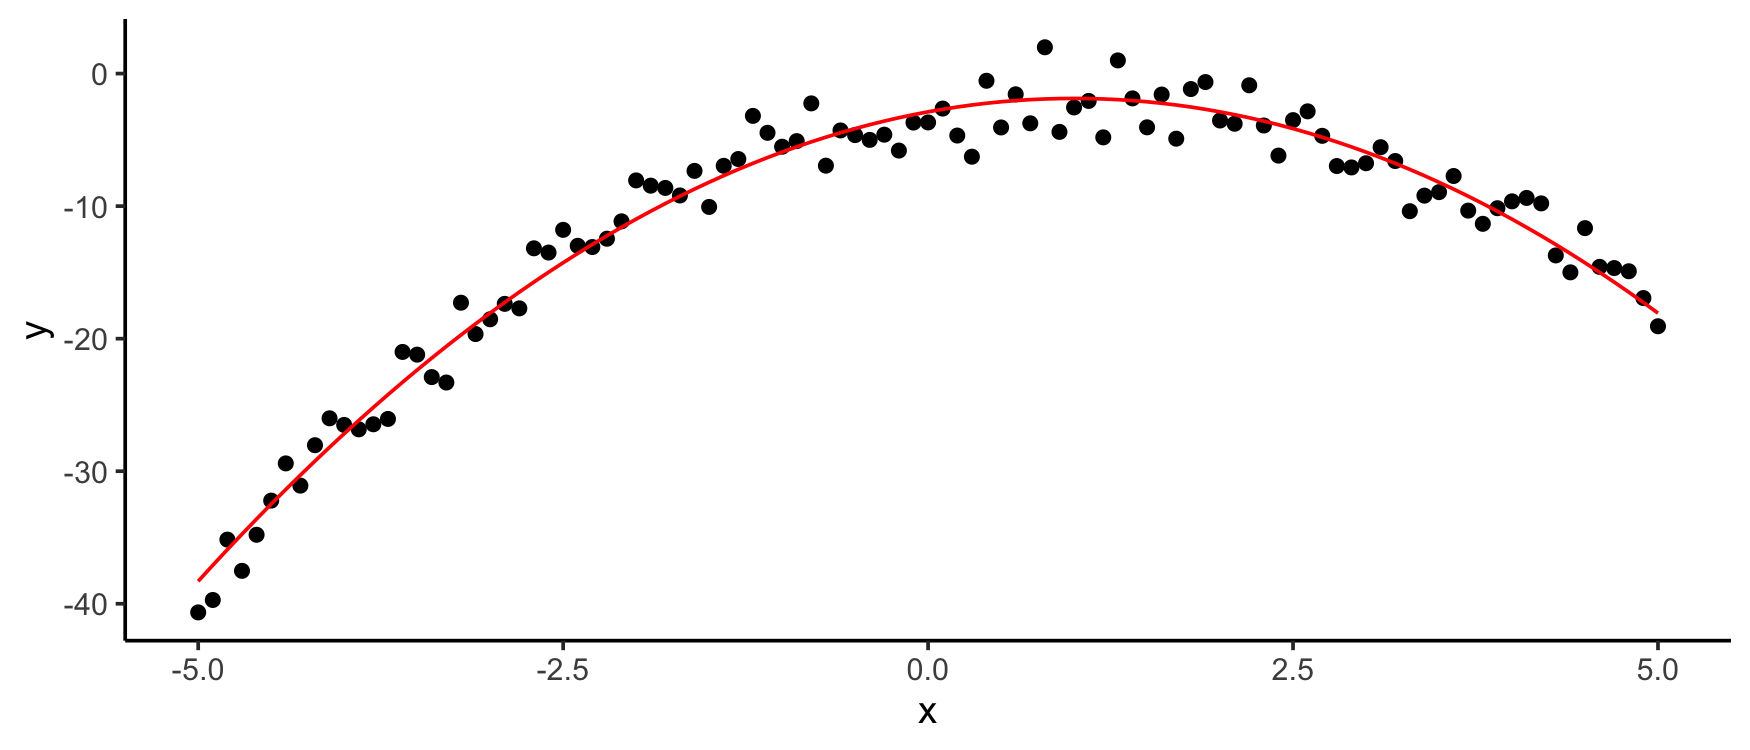
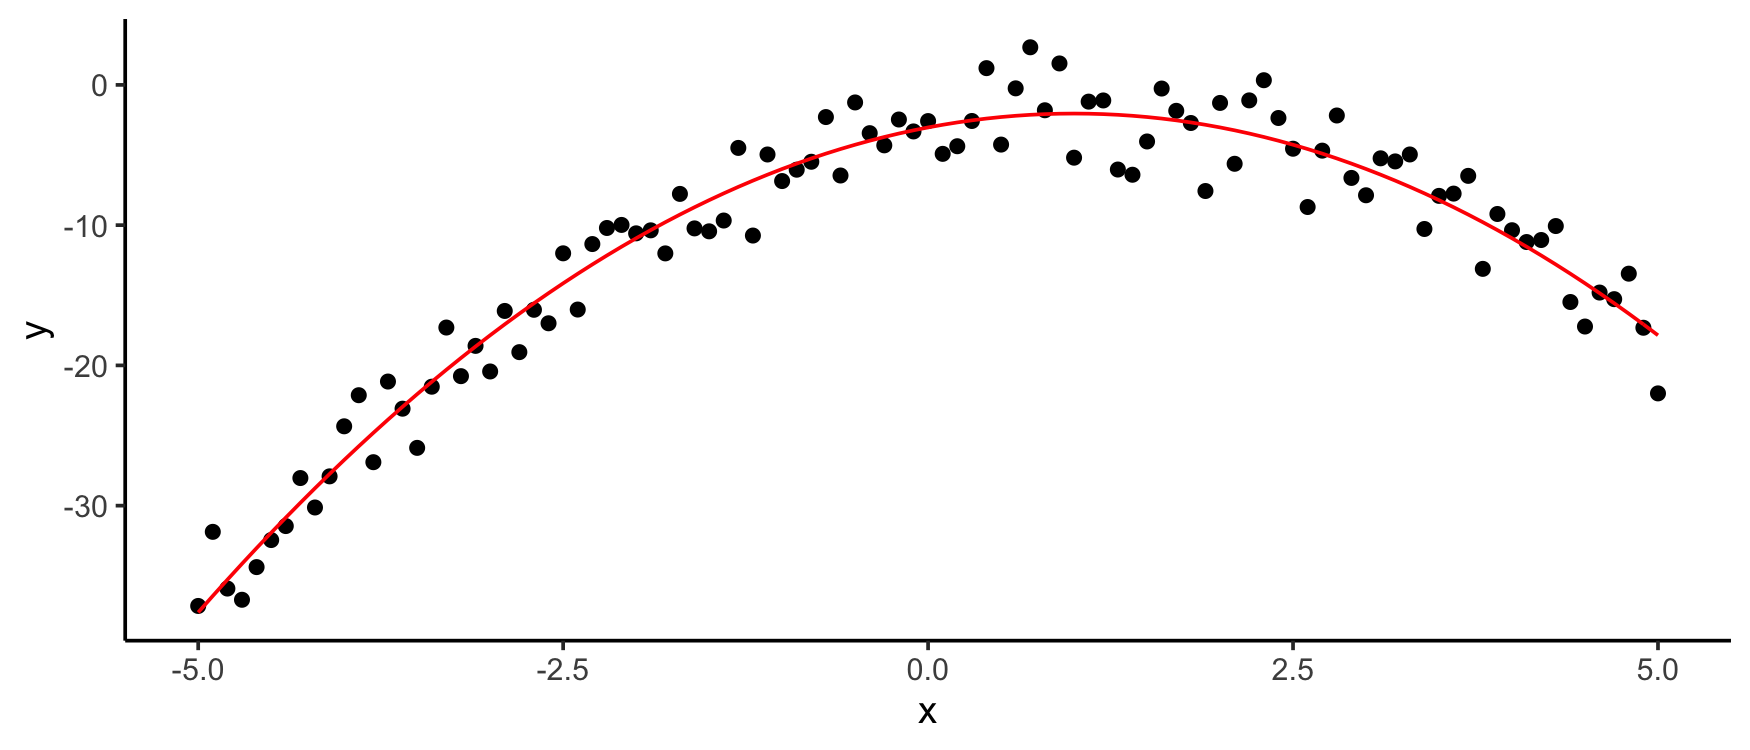
add cran badge to readme

diff --git a/README.md b/README.md
@@ -3,6 +3,12 @@
 mpoly
 =====
 
+<!-- badges: start -->
+
+[![CRAN
+status](https://www.r-pkg.org/badges/version/mpoly)](https://cran.r-project.org/package=mpoly)
+<!-- badges: end -->
+
 Specifying polynomials
 ----------------------
 
@@ -552,7 +558,7 @@ df$y <- with(df, -x^2 + 2*x - 3 + rnorm(n, 0, 2))
 
 mod <- lm(y ~ x + I(x^2), data = df)
 (p <- mod %>% as.mpoly %>% round)
-# 2.023 x  -  1.012 x^2  -  2.886
+# 1.976 x  -  0.988 x^2  -  3.032
 qplot(x, y, data = df) +
   stat_function(fun = as.function(p), colour = 'red')
 # f(.) with . = x
@@ -572,19 +578,19 @@ df <- expand.grid(x = s, y = s) %>%
 # 
 # Coefficients:
 #                           (Intercept)  
-#                             -0.024587  
+#                              0.052248  
 # poly(x, y, degree = 2, raw = TRUE)1.0  
-#                             -0.009347  
+#                              0.008894  
 # poly(x, y, degree = 2, raw = TRUE)2.0  
-#                              1.002485  
+#                              1.000142  
 # poly(x, y, degree = 2, raw = TRUE)0.1  
-#                              0.001379  
+#                              0.010057  
 # poly(x, y, degree = 2, raw = TRUE)1.1  
-#                              3.002147  
+#                              2.994984  
 # poly(x, y, degree = 2, raw = TRUE)0.2  
-#                             -1.001601
+#                             -1.005899
 as.mpoly(mod)
-# -0.00934674 x  +  1.002485 x^2  +  0.001378969 y  +  3.002147 x y  -  1.001601 y^2  -  0.0245867
+# 0.008894483 x  +  1.000142 x^2  +  0.01005651 y  +  2.994984 x y  -  1.005899 y^2  +  0.05224829
 ```
 
 Installation
